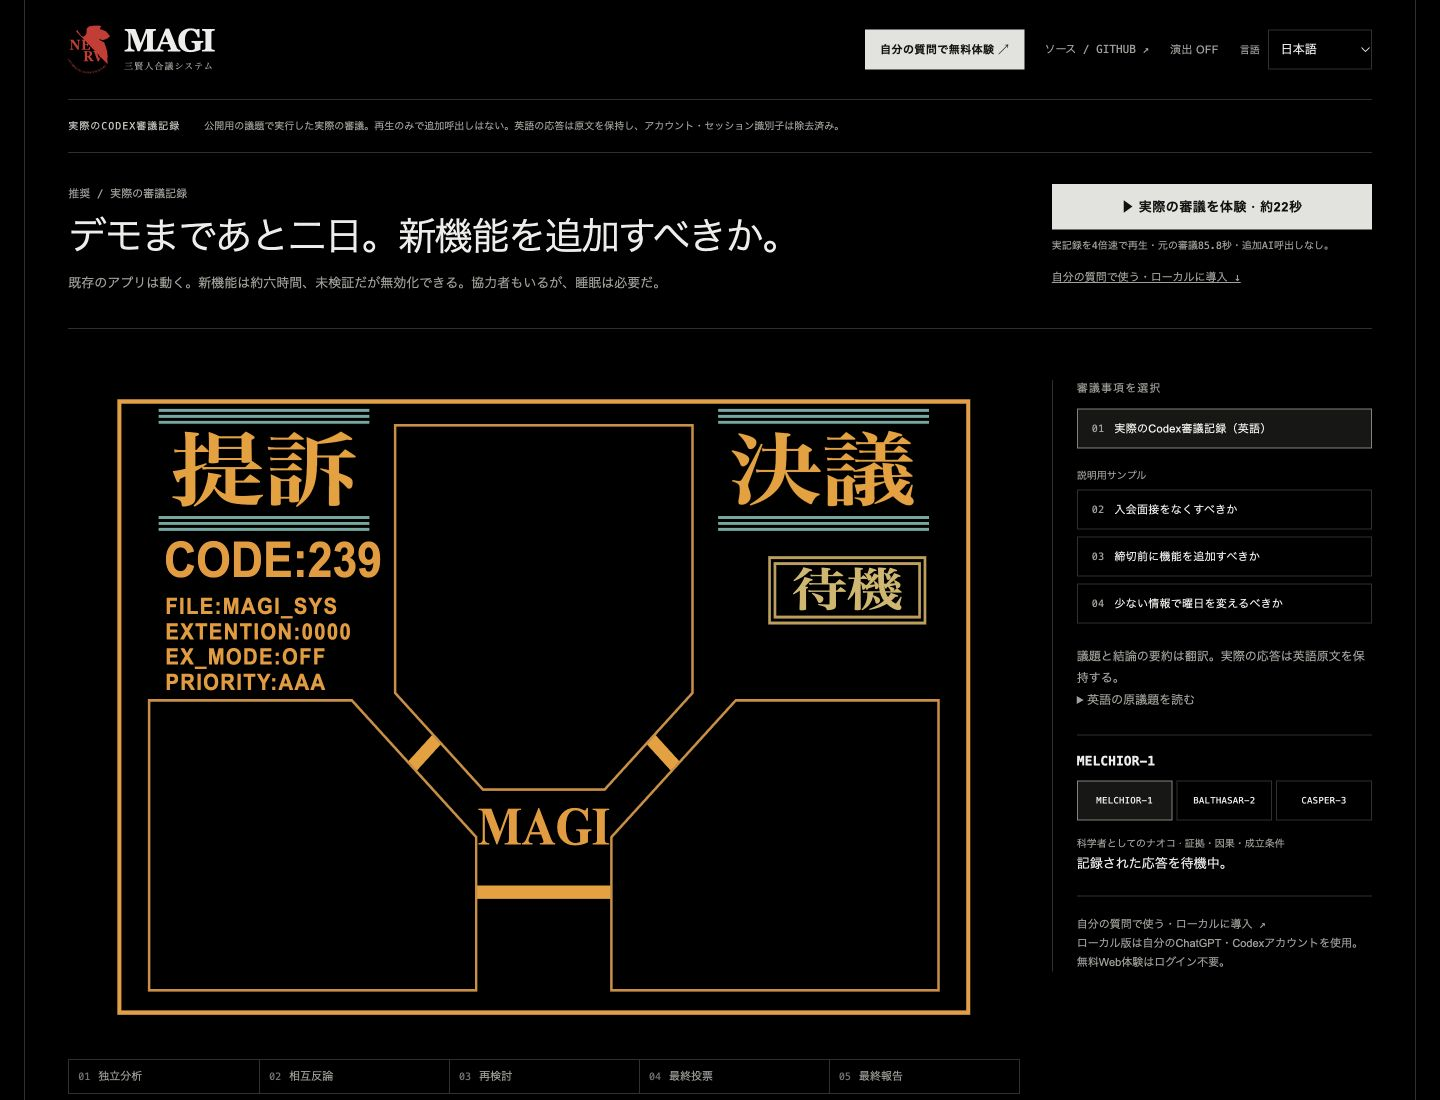
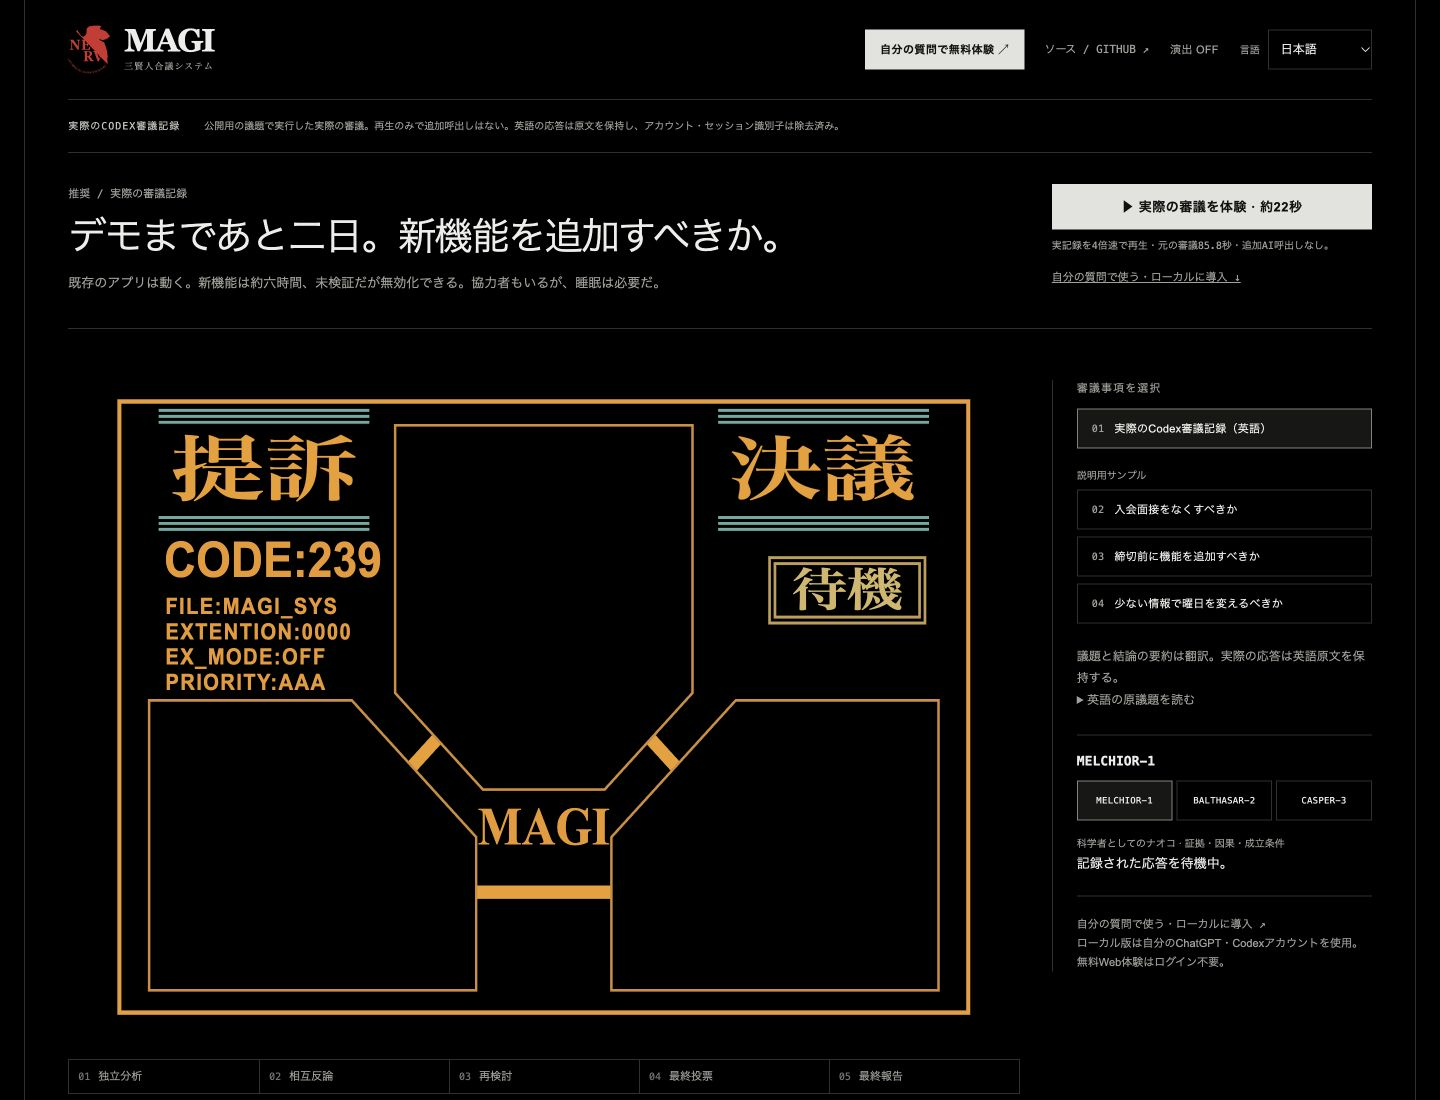
Allow for taller fallback glyphs in MAGI headings

Changed region(s): [[0.5, 0.3709, 0.6562, 0.4636], [0.125, 0.3709, 0.25, 0.4636]]

diff --git a/tests/browser/locales.spec.ts b/tests/browser/locales.spec.ts
@@ -36,10 +36,10 @@ test('language control localizes the operator UI while preserving Japanese MAGI 
       );
     }
     await page.getByTestId('locale-select').selectOption('en');
+    await expect(page.locator('html')).toHaveAttribute('lang', 'en');
     await page.locator('.new-button').click();
     await expect(page.getByTestId('resolution-stamp')).toHaveText('待機');
-    const translatedControls = await page.locator('.sequence-strip').innerText();
-    expect(translatedControls).not.toMatch(/[가-힣一-龠ぁ-ゔァ-ヴ]/);
+    await expect(page.locator('.sequence-strip')).not.toContainText(/[가-힣一-龠ぁ-ゔァ-ヴ]/);
     await expect(page.locator('.screen-kanji text')).toHaveText(['提訴', '決議']);
   } finally {
     await request.put('/api/settings', { data: original });

diff --git a/src/MagiScreen.tsx b/src/MagiScreen.tsx
@@ -90,7 +90,7 @@ export default function MagiScreen({
             <g className="screen-kanji">
               <text
                 x={diagnostics ? 81 : 76}
-                y="104"
+                y="101"
                 textLength={diagnostics ? 158 : 138}
                 lengthAdjust="spacingAndGlyphs"
               >
@@ -98,7 +98,7 @@ export default function MagiScreen({
               </text>
               <text
                 x={diagnostics ? 469 : 489}
-                y="104"
+                y="101"
                 textLength={diagnostics ? 155 : 138}
                 lengthAdjust="spacingAndGlyphs"
               >

diff --git a/src/styles.css b/src/styles.css
@@ -219,12 +219,9 @@ span {
 /* Type and strokes are in the 704×480 source-capture coordinate system. */
 .screen-kanji {
   font-family: 'Hiragino Mincho ProN', 'Yu Mincho', 'Noto Serif CJK JP', serif;
-  font-size: 54px;
+  font-size: 48px;
   font-weight: 900;
   fill: #ef9d22;
-}
-.scene-deliberation .screen-kanji {
-  font-size: 54px;
 }
 .screen-metadata {
   fill: #ed9825;

diff --git a/docs/VERIFICATION.md b/docs/VERIFICATION.md
@@ -9,7 +9,7 @@
 - 네 언어의 모국어 문체와 인격별 관점 지침을 추가하고, 클라우드에서는 우선순위가 높은 시스템 지침으로 전달한다. 한국어 명사형 요약·존댓말·번역투가 기존 Qwen 모델에서 계속 나오는 것을 실제 비교로 확인해, 무료 사용 가능한 **GLM-4.7-Flash**를 고정 모델로 선택했다. 비추론 모드를 명시하고 추가 번역 호출 없이 최대 13회 호출을 유지한다. 로컬 Codex에도 같은 언어 지침을 적용하되 실제 로컬 모델 호출은 하지 않았다.
 - 실제 표결과 다른 첫 판단, 설명이 없는 한 단어 결론은 최종 보고서로 받아들이지 않는다. 표결에 맞는 언어별 첫 문장과 그 뒤의 설명을 스키마·검증으로 요구한다. 이전 토론의 입장을 현재 최종 반대로 잘못 소개하지 않도록 현재 최종표와 과거 토론을 구분한다. 실패해도 실제 표는 보존한다. 과거 저장 기록·영상의 발언은 수정하지 않는다.
 - 단위·API **56개**, 로컬 화면 **78개**, 공개 화면 **34개**, 총 **168개** 자동 검사를 확인했다. 새 한국어 실제 심의에서 12개 의견과 최종 보고서까지 13회 호출을 완료했고, 온전한 반말 문장과 실제 DENIED 표결에 맞는 답변을 확인했다. 해당 짧은 사례는 공개된 단가로 약 175 Neurons였다. 이후 한국어·영어·중국어·일본어를 각각 실제 13회 호출로 검증해 네 건 모두 12개 의견·최종 보고서를 완료했다. 같은 짧은 상황에서 공개 단가로 추정한 사용량은 약 120~175 Neurons였다. 이는 처리 용량 보장이나 대표 성능 평가가 아니다.
-- 원작 일본어, 정면 4:3 화면, 고정 패널과 불규칙 점멸을 유지한다. 제목의 위쪽 청록색 장식선을 올리고 글자 기준선을 조정해 겹침을 없앴다. 대기·정사각형 진단 화면에서 기본·serif·sans-serif 글꼴의 실제 경계를 측정해 선의 굵기까지 포함한 여백을 검사한다. 임시 업데이트 자격 증명을 서버 비밀값으로 설치하지 않고 기존 읽기 전용 감시 자격 증명을 보존하도록 배포 절차도 수정했다.
+- 원작 일본어, 정면 4:3 화면, 고정 패널과 불규칙 점멸을 유지한다. 제목의 위쪽 청록색 장식선을 올리고 글자 높이·기준선을 조정해 겹침을 없앴다. 가로 폭은 그대로다. 대기·정사각형 진단 화면에서 기본·serif·sans-serif 글꼴의 실제 경계를 측정해 선의 굵기까지 포함한 여백을 검사한다. macOS와 Linux의 글꼴 높이 차이도 반영했다. 임시 업데이트 자격 증명을 서버 비밀값으로 설치하지 않고 기존 읽기 전용 감시 자격 증명을 보존하도록 배포 절차도 수정했다.
 - 공개 화면의 도입 구호·중복 안내를 제거하고 모델·한도·개인정보 설명은 접힌 이용 안내로 옮겼다. 바깥 인터페이스는 Celetix의 흑백·가는 선·여백을 참고해 수정했으며, 해당 사이트의 외부 폰트나 자산은 추가하지 않았다. 기존 재생·영상·공유·질문 도우미·언어 선택 기능을 유지한다. 네 언어의 접힌 안내, 입력 복구, 한도 표시와 모바일 넘침을 공개 화면 검사에서 확인한다.
 - 원격 검사에서 질문 도우미의 빠른 편집·새로고침 검사가 한 번 실패했다. 템플릿 선택 후 지연된 자동 포커스가 이미 시작한 다른 필드 편집을 방해할 수 있어, 포커스가 바뀌지 않았을 때만 이동하도록 보완했다. 데스크톱·모바일 각각 5회, 총 10회 반복 검사로 입력·재로드·원본 질문 보존을 확인했다.
 
